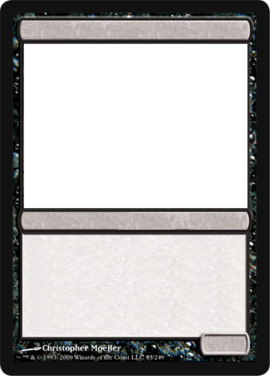
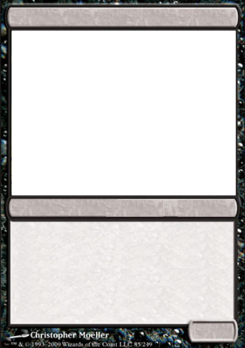
아이템샵 이미지 크기 및 css 일부 수정

diff --git a/src/main/resources/static/css/shop_custom.css b/src/main/resources/static/css/shop_custom.css
@@ -27,7 +27,7 @@
     background-color: #222;
     color: white;
     /* background-image: url("../img/acheivement-3.png"); */
-    background-size: 270px 500px;
+    background-size: 100% 100%;
     background-repeat: no-repeat;
 }
 .profile-header{
@@ -36,7 +36,9 @@
     background-size: 230px 230px;
     background-repeat: no-repeat;
     background-position: 20px 0;
-    
+
+    background-position: center;
+    background-size:cover;
     /* background-position: left; */
     /* background-image: url("../img/acheivement-2.png"); */
 }
@@ -113,7 +115,7 @@
     padding-top: 5px;
 }
 .profile-badge-section .badge{
-    height: 40px;
+    height: 50px;
     width: 50px;
     /* size: 40px; */
     font-size: 30px;

diff --git a/src/main/resources/templates/shop.html b/src/main/resources/templates/shop.html
@@ -154,6 +154,7 @@
                                                 
                                                 </div>
                                         </div>
+                                        <br>
                                         <div class="setbtn">
                                             <ul id="previewList"></ul>
                                         </div>
